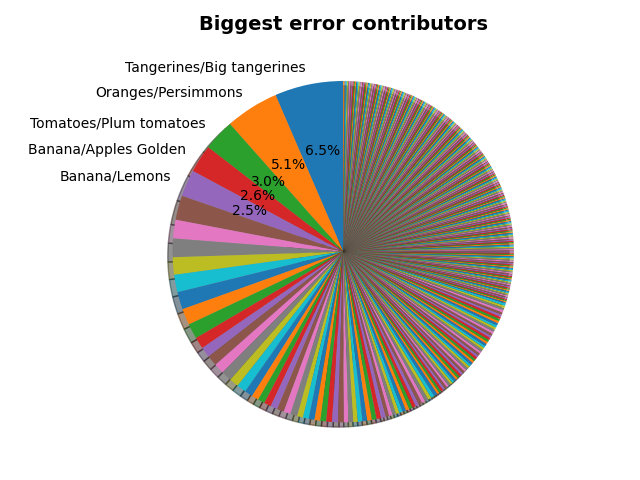
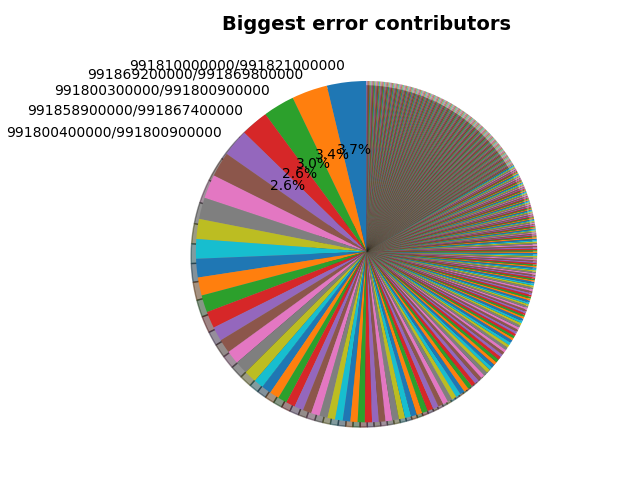
s3 data refresh, big file deleted

diff --git a/InterClassSimilarity_SOM/adhoc_s3_errorCnt_confMat_sameSomClstr_prods.py b/InterClassSimilarity_SOM/adhoc_s3_errorCnt_confMat_sameSomClstr_prods.py
@@ -1,0 +1,93 @@
+# kiek klaidu % tarp pomidoru ir jonagold obuoliu (blogiausio SOM clusterio top 2 prekes)
+
+from Globals.globalvars import Glb, Glb_Iterators
+from tensorflow.keras.models import load_model
+import os
+import time
+import numpy as np
+import pandas as pd
+import itertools
+from sklearn.metrics import confusion_matrix
+from matplotlib import pyplot as plt
+
+hier_lvl = 0
+
+# prodcuts to compare (IDs from IsKnown_Results/SOM_Clstr_Str/Train_15x15_hier0/purity_0.197_[11_3].csv)
+prods=[57,42]
+
+set_name="Test"
+#set_name="Val"
+
+df_prodnames = pd.read_csv("df_prods_s3_148.csv", header=0)["class"].tolist()
+df_classes = pd.read_csv("df_prods_s3_148.csv", header=0)["class"].tolist()
+
+model_filename = r"A:\IsKnown_Results\model_clsf_from_isVisible_20220719.h5"
+model = load_model(model_filename)
+
+data_folder = os.path.join(r"C:\IsKnown_Images_IsVisible", set_name)
+data_iterator = Glb_Iterators.get_iterator(data_folder, div255_resnet="div255", batch_size=64, target_size=256, shuffle=False)
+total_classes = len(data_iterator.class_indices)
+
+actual_classes = data_iterator.classes
+now=time.time()
+preds = model.predict(data_iterator, steps=len(data_iterator))
+print ("Predicted in {} sec".format(time.time()-now))
+pred_classes = np.argmax(preds,axis=1)
+
+# Sanity check: overall accuracy
+acc = len ( np.where (pred_classes==actual_classes)[0] ) / len(actual_classes)
+total_errors = len( np.where (pred_classes!=actual_classes)[0] )
+print ("{} accuracy: {}. Total errors: {}/{}".format(set_name, acc, total_errors, len(pred_classes)))
+
+# for each pair of products
+for prod_i,prod_j in itertools.combinations(prods, 2):
+    errors_between_prods = len( np.where ((pred_classes==prod_i) & (actual_classes==prod_j) | (pred_classes==prod_j) & (actual_classes==prod_i))[0] )
+    pct_thisErrors_vs_totalErrors = errors_between_prods / total_errors * 100
+    prod_i_name,prod_j_name = df_prodnames[prod_i], df_prodnames[prod_j]
+    prod_i_class,prod_j_class = df_classes[prod_i], df_classes[prod_j]
+    print ("Errors between products [{}({}),{}({})] contribute {}/{} ({} pct)".format (prod_i_name,prod_i_class,prod_j_name,prod_j_class,errors_between_prods,total_errors, pct_thisErrors_vs_totalErrors) )
+    print ("---------------------------")
+
+conf_mat = confusion_matrix(y_true=actual_classes, y_pred=pred_classes)
+# remove diagonal; sum elements [i,j]+[j,i]; set other to 0
+for i in range(total_classes):
+    conf_mat[i,i]=0
+    for j in range(i+1,total_classes):
+        conf_mat[i, j] += conf_mat[j, i]
+        conf_mat[j, i] = 0
+
+
+lst_pct_thisErrors_vs_totalErrors = []
+prod_name_pairs = []
+
+# Biggest 21 error contributors
+print ("Top 21 error contributors")
+#for top_i in range(21):
+top_i=0
+while np.sum(conf_mat>0):
+    ind_ravel = np.argmax(conf_mat)
+    inds = np.unravel_index( ind_ravel, (total_classes,total_classes))
+    errors_between_prods = conf_mat [inds]
+    pct_thisErrors_vs_totalErrors = errors_between_prods / total_errors*100
+    prod_i_name,prod_j_name = df_prodnames[inds[0]], df_prodnames[inds[1]]
+    prod_i_class,prod_j_class = df_classes[inds[0]], df_classes[inds[1]]
+    print ("errors between [{}({}),   {}({})] contribute {}/{} ({} pct)".format (prod_i_name,prod_i_class,prod_j_name,prod_j_class,errors_between_prods,total_errors, pct_thisErrors_vs_totalErrors))
+    conf_mat [inds] = 0
+    # accum data for pie chart
+    lst_pct_thisErrors_vs_totalErrors.append(pct_thisErrors_vs_totalErrors)
+    prod_name_pairs.append( "{}/{}".format(prod_i_name,prod_j_name) if top_i<5 else "")
+    top_i += 1
+
+# Append other (not top n)
+#lst_pct_thisErrors_vs_totalErrors.append( np.sum(conf_mat)/total_errors*100 )
+#prod_name_pairs.append("Other")
+#fig1, ax1 = plt.subplots()
+#plt.pie(lst_pct_thisErrors_vs_totalErrors, labels=prod_name_pairs, autopct='%1.1f%%', shadow=True, startangle=90)
+plt.pie(lst_pct_thisErrors_vs_totalErrors, labels=prod_name_pairs, autopct=lambda pct:r"{:.1f}%".format(pct) if pct>2.4 else "", shadow=True, startangle=90)
+#plt.axis('equal')  # Equal aspect ratio ensures that pie is drawn as a circle.
+plt.title ("Biggest error contributors", fontsize=14, fontweight="bold")
+plt.tight_layout()
+
+
+plt.savefig("temp/pie_top10_err_contributors.png")
+plt.close()

diff --git a/Data_Prep_s3/classify_affine_notEmpty.py b/Data_Prep_s3/classify_affine_notEmpty.py
@@ -1,0 +1,93 @@
+# Using IsVisible classifiers
+#   2 best F-1 models
+# Make Datasets from cropped data (each model)
+
+from Globals.globalvars import Glb
+from tensorflow.keras.models import load_model
+from pathlib import Path    # recursive list of files
+from PIL import Image
+import PIL
+import numpy as np
+import os
+import shutil
+from tensorflow.keras.applications.resnet50 import preprocess_input as resnet_preprocess_input
+
+def prepareImage (filename, target_size):
+	# Load image ( RGB )
+    img = PIL.Image.open(filename)
+    # Crop bottom square frame (assume H>W)
+    w, h = img.size
+    img = img.crop ((0,h-w,w,h)) if h>w else img
+    # Resize to target
+    img = img.resize ((target_size,target_size))
+    # resnet prepare
+    img = np.array(img) / 255.
+    #print ("img[0:2,:,:]: {}".format(img[:2,0,0]))dest_folder_notempty = os.path.join( Glb.images_folder, "Affine_EmptyNot", "Affine_NotEmpty")
+
+    return np.stack([img])  # quick way to add a dimension
+
+
+data_folder =  os.path.join( Glb.images_folder, "Affine_s3")
+
+dest_folder_notempty = os.path.join( Glb.images_folder, "Affine_EmptyNot", "Affine_NotEmpty")
+dest_folder_empty = os.path.join( Glb.images_folder, "Affine_EmptyNot", "Affine_Empty")
+
+#remove folders if exist
+if os.path.exists(dest_folder_notempty):
+    shutil.rmtree(dest_folder_notempty)
+if os.path.exists(dest_folder_empty):
+    shutil.rmtree(dest_folder_empty)
+
+# model to load from
+model_path = os.path.join ( Glb.results_folder, "model_emptyNot_20210222_Balanced.h5")
+
+is_overfit = False
+is_notempty_thr = 0.5
+
+is_resnet = False
+
+# Load model
+print ("Loading model {}".format(model_path))
+model = load_model ( model_path )
+target_size = model.layers[0].input_shape[1]# for isVisible (None, 256, 256, 3)
+#print (model.summary())
+print ("Done Loading model. Target size: {}".format(target_size))
+
+# Get list of image files
+img_file_lst = [str(thepath) for thepath in Path(data_folder).rglob("*.jpg")]
+print ("Total files found: {}".format( len(img_file_lst) ) )
+
+# Counter for files copied and loop
+total_copied = 0
+loop_cntr = 0
+
+for img_file in img_file_lst:
+    # Classify and copy if Visible
+    img_prepped = prepareImage(img_file, target_size)
+    pred = model.predict (img_prepped)
+    #print ("pred.shape:{}".format(pred.shape))
+
+    # classes are [0:Empty; 1:NotEmpty]
+    is_notempty = pred[0, 1] > is_notempty_thr
+    barcode, file_name_stripped = img_file.split( os.sep )[-2:]
+
+    # Split to barcode folders only non-empty; place empty to 1 folder
+    #if is_notempty:
+    # make folder and copy file
+    dest_folder_emptyornot= dest_folder_notempty if is_notempty else dest_folder_empty
+    dest_folder_barcode = os.path.join(dest_folder_emptyornot, barcode)
+    if not os.path.exists(dest_folder_barcode):
+        os.makedirs(dest_folder_barcode)
+    dest_fullname = os.path.join(dest_folder_barcode,file_name_stripped)
+    shutil.copy(img_file, dest_fullname)
+    #else:
+    #    dest_fullname = os.path.join(dest_folder_empty, file_name_stripped)defined
+
+
+    total_copied += 1 if is_notempty else 0
+    loop_cntr +=1
+
+    if loop_cntr%100==0:
+        print ("Files copied {}, processed {} / {}".format(total_copied,loop_cntr,len(img_file_lst)))
+
+print ("Total copied {}/{}".format(total_copied, len(img_file_lst)))

diff --git a/Data_Prep_s3/classify_sortbysigmoid.py b/Data_Prep_s3/classify_sortbysigmoid.py
@@ -1,0 +1,82 @@
+# Using IsVisible classifiers
+#   2 best F-1 models
+# Make Datasets from cropped data (each model)
+
+data_folder = "A:\\IsKnown_Images\\Affine_S3"
+
+
+# filename=sigmoid value (for sorting)
+#dest_folder_sigmoid = "A:\\IsKnown_Images\\EmptyNotDebug\\Sigmoid_NotEmptyUndersampled\\"
+dest_folder_sigmoid = "A:\\IsKnown_Images\\EmptyNotDebug\\Sigmoid_Balanced\\"
+
+# model to load from
+#model_path = r"A:\\IsKnown_Results\\model_emptyNot_20210222_NotEmptyUndersampled.h5"
+model_path = r"A:\\IsKnown_Results\\model_emptyNot_20210222_Balanced.h5"
+is_resnet=False
+
+from tensorflow.keras.models import load_model
+from pathlib import Path    # recursive list of files
+from PIL import Image
+import numpy as np
+import os
+import shutil
+from tensorflow.keras.applications.resnet50 import preprocess_input as resnet_preprocess_input
+from matplotlib import pyplot as plt
+
+def prepareImage (filename, target_size):
+	# Load image ( RGB )
+    img = Image.open(filename)
+    # Crop bottom square frame (assume H>W)
+    w, h = img.size
+    img = img.crop ((0,h-w,w,h)) if h>w else img
+    # Resize to target
+    img = img.resize ((target_size,target_size))
+    # resnet prepare
+    if is_resnet:
+        img = resnet_preprocess_input(np.array(img))
+    else:
+        img = np.array(img) / 255.
+        #print ("img[0:2,:,:]: {}".format(img[:2,0,0]))
+    return np.stack([img])  # quick way to add a dimension
+
+
+# Load model
+print ("Loading model {}".format(model_path))
+model = load_model ( model_path )
+if is_resnet:
+    target_size = model.layers[0].input_shape[0][1] # for resnet input_shape is [(None, 224, 224, 3)]
+else:
+    target_size = model.layers[0].input_shape[1] # for isVisible              (None, 256, 256, 3)
+#print (model.summary())
+print ("Done Loading model. Target size: {}".format(target_size))
+
+# Get list of image files
+img_file_lst = [str(thepath) for thepath in Path(data_folder).rglob("*.jpg")]
+print ("Total files found: {}".format( len(img_file_lst) ) )
+
+# Counter for files copied and loop
+loop_cntr = 0
+
+# Assemble sigmoid values by display
+dic_sigmoids = {"Empty": [], "NotEmpty": []}
+
+for img_file in img_file_lst:
+    # Get "sigmoid" value and copy
+    img_prepped = prepareImage(img_file, target_size)
+    sigmoidvalue = model.predict (img_prepped)[0,0] # shape is [m,2], where [:,0]=Empty_prob, [:,1]=NotEmpty_prob
+
+    # Assemble sigmoid values
+    barcode = img_file.split("\\")[-2]
+
+    # copy file: filename=sigmoid value
+    dest_dir_barcode = os.path.join(dest_folder_sigmoid, barcode)
+    if not os.path.exists(dest_dir_barcode):
+        os.makedirs(dest_dir_barcode)
+    dest_fullname = os.path.join(dest_dir_barcode, '{:0>8}.jpg'.format( int(sigmoidvalue * 1e+7) ) )
+    shutil.copy(img_file, dest_fullname)
+
+    loop_cntr +=1
+    if loop_cntr%100==0:
+        print ("Files processed {} / {}".format(loop_cntr,len(img_file_lst)))
+
+print ("Total copied {}/{}".format(loop_cntr, len(img_file_lst)))

diff --git a/Data_Prep_Affine/sco_four_points.py b/Data_Prep_Affine/sco_four_points.py
@@ -282,14 +282,20 @@ src_pts["VILNIUS_RYGOS_SCO22"] = np.array([
        [600,580],
        [150,730]]).astype(np.float32)
 
+src_pts["VILNIUS_RYGOS_SCO23"] = np.array([
+       [30,270],
+       [360,280],
+       [600,580],
+       [150,730]]).astype(np.float32)
+
 src_pts["VILNIUS_RYGOS_SCO24"] = np.array([
        [40,280],
        [370,300],
        [590,580],
        [150,730]]).astype(np.float32)
 
-#src_pts["VILNIUS_RYGOS_SCO25"] = np.array([
-#       [40,280],
-#       [370,300],
-#       [590,580],
-#       [150,730]]).astype(np.float32)
+src_pts["VILNIUS_RYGOS_SCO25"] = np.array([
+       [40,280],
+       [370,300],
+       [590,580],
+       [150,730]]).astype(np.float32)

diff --git a/IsVisible_MakeModel/train_gpu0_s3.py b/IsVisible_MakeModel/train_gpu0_s3.py
@@ -11,6 +11,7 @@ os.environ["CUDA_VISIBLE_DEVICES"]=str(gpu_id)
 
 model_filename = os.path.join(Glb.results_folder,
                                "model_clsf_from_isVisible_{}.h5".format(date.today().strftime("%Y%m%d")))
+#model_filename = r"A:\IsKnown_Results\model_clsf_from_isVisible_20220725.h5"
 lc_filename = os.path.join(Glb.results_folder,
                            "lc_clsf_from_isVisible_{}.csv".format(date.today().strftime("%Y%m%d") ))
 data_dir = Glb.images_balanced_folder

diff --git a/Data_Prep_Affine/affine_transform.py b/Data_Prep_Affine/affine_transform.py
@@ -20,6 +20,8 @@ i=0
 
 # Loop structure <sco>\<barcode>\*.jpg
 for sco_lvl in os.listdir(src_folder):
+    #if sco_lvl<'VILNIUS_RYGOS_SCO25':
+    #    continue
     sco_lvl_full_folder = os.path.join(src_folder,sco_lvl)
 
     # Original and transformed image locations mapping

diff --git a/Data_Prep_s3/A.balance_affAugment.py b/Data_Prep_s3/A.balance_affAugment.py
@@ -11,7 +11,7 @@ import numpy as np
 from affSequence import affSequence
 import math
 
-glb_aff_variation=10
+glb_aff_variation=30
 
 #src_folder = r"A:\IsKnown_Images\A_Hier"
 src_folder = r"A:\IsKnown_Images\Aff_NE_TrainValTest_S3"
